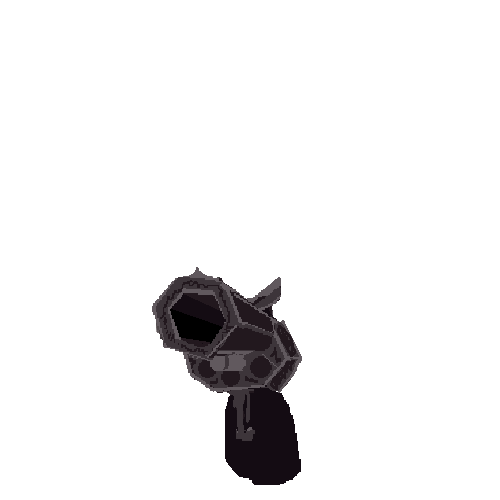
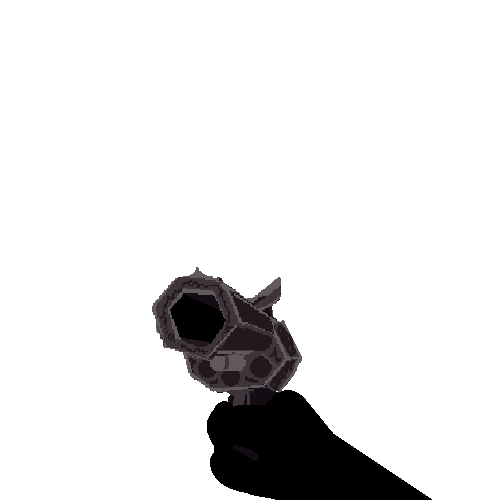
improved sprites n animations

Changed region(s): [[0.39, 0.78, 0.87, 1.0]]

diff --git a/game.py b/game.py
@@ -2,10 +2,10 @@ import pygame
 import random
 import sys
 
-# Initialize Pygame
+
 pygame.init()
 
-# Constants
+# dont touch
 SCREEN_WIDTH, SCREEN_HEIGHT = 1200, 600
 FPS = 30
 
@@ -22,7 +22,7 @@ pygame.display.set_caption("Russian Roulette")
 # Clock
 clock = pygame.time.Clock()
 
-# Fonts
+# Font
 font = pygame.font.SysFont(None, 55)
 
 def draw_text(text, font, color, surface, x, y):
@@ -31,7 +31,7 @@ def draw_text(text, font, color, surface, x, y):
     textrect.center = (x, y)
     surface.blit(textobj, textrect)
 
-# Load sounds
+# Load sound
 bang_sound = pygame.mixer.Sound('assets/gunshot.mp3')
 click_sound = pygame.mixer.Sound('assets/empty-gun-click.mp3')
 spin_sound = pygame.mixer.Sound('assets/revolver-spin.mp3')
@@ -43,89 +43,98 @@ background_image = pygame.transform.scale(background_image, (SCREEN_WIDTH, SCREE
 
 # Load and scale revolver image
 revolver_image = pygame.image.load('assets/revolver.png')
-revolver_image = pygame.transform.scale(revolver_image, (600, 600))  # 200 * 3 = 600
+revolver_image = pygame.transform.scale(revolver_image, (600, 600))
 
 # Load and scale animation frames
 spin_frames = [
-    pygame.transform.scale(pygame.image.load(f'assets/spin_{i}.png'), (600, 600))  # 200 * 3 = 600
+    pygame.transform.scale(pygame.image.load(f'assets/spin_{i}.png'), (600, 600))
     for i in range(1, 8)
 ]
 
-# Load and scale trigger effect
+# Flash image
 flash_image = pygame.image.load('assets/flash.png')
-flash_image = pygame.transform.scale(flash_image, (600, 600))  # 200 * 3 = 600
+flash_image = pygame.transform.scale(flash_image, (600, 600))
+
+def menu(): #menu that starts the main function (the game)
+    screen.fill(BLACK)
+    draw_text('Russian Roulette', font, RED, screen, SCREEN_WIDTH // 2, SCREEN_HEIGHT // 3)
+    draw_text('Remember. . . You can not win', font, RED, screen,  SCREEN_WIDTH // 2, SCREEN_HEIGHT // 2 )
+    draw_text('Click to Start', font, GREEN, screen, SCREEN_WIDTH // 2, SCREEN_HEIGHT // 1.2)
+    pygame.display.flip()
+
+    while True:
+        for event in pygame.event.get():
+            if event.type == pygame.QUIT:
+                pygame.quit()
+                sys.exit()
+            if event.type == pygame.MOUSEBUTTONDOWN:
+                main()
 
 def animate_spin():
     for frame in spin_frames:
-        screen.blit(background_image, (0, 0))  # Draw the background first
-        screen.blit(frame, (300, 0))  # Adjusted position to fit the larger image
+        screen.blit(background_image, (0, 0))
+        screen.blit(frame, (300, 0))
         pygame.display.flip()
-        pygame.time.delay(100)  # Adjust delay for animation speed
+        pygame.time.delay(100)
 
 def animate_trigger():
-    screen.blit(background_image, (0, 0))  # Draw the background first
-    screen.blit(flash_image, (300, 0))  # Adjusted position to fit the larger image
+    screen.blit(background_image, (0, 0))
+    screen.blit(flash_image, (300, 0))
     pygame.display.flip()
-    pygame.time.delay(200)  # Adjust delay for animation duration
-    screen.blit(background_image, (0, 0))  # Redraw the background
-    screen.blit(revolver_image, (300, 0))  # Adjusted position to fit the larger image
+    pygame.time.delay(200)
+    screen.blit(background_image, (0, 0))
+    screen.blit(revolver_image, (300, 0))
     pygame.display.flip()
 
 def main():
     running = True
     score = 0
-    cylinder = [0, 0, 0, 0, 0, 1]  # One bullet in the cylinder
-    random.shuffle(cylinder)  # Randomize the cylinder
+    cylinder = [0, 0, 0, 0, 0, 1]
+    random.shuffle(cylinder)
+
+    spin_button = pygame.Rect(250, 500, 200, 50)
+    trigger_button = pygame.Rect(750, 500, 200, 50)
 
     while running:
+        screen.blit(background_image, (0, 0))
+        screen.blit(revolver_image, (300, 0))
+
+        pygame.draw.rect(screen, GREEN, spin_button)
+        pygame.draw.rect(screen, RED, trigger_button)
+        draw_text('Spin', font, BLACK, screen, spin_button.centerx, spin_button.centery)
+        draw_text('Trigger', font, BLACK, screen, trigger_button.centerx, trigger_button.centery)
+
         for event in pygame.event.get():
             if event.type == pygame.QUIT:
                 pygame.quit()
                 sys.exit()
             if event.type == pygame.MOUSEBUTTONDOWN:
                 if spin_button.collidepoint(event.pos):
-                    # Spin the cylinder
                     spin_sound.play()
                     animate_spin()
                     cylinder = [0, 0, 0, 0, 0, 1]
                     random.shuffle(cylinder)
                 elif trigger_button.collidepoint(event.pos):
-                    # Pull the trigger
                     if cylinder.pop() == 1:
                         animate_trigger()
                         bang_sound.play()
                         ring_sound.play()
-                        
-                        draw_text('Game Over', font, RED, screen, SCREEN_WIDTH // 2, SCREEN_HEIGHT // 2)
+                        screen.fill(WHITE)
+                        draw_text('Death comes alas', font, RED, screen, SCREEN_WIDTH // 2, SCREEN_HEIGHT // 2)
                         pygame.display.flip()
-                        pygame.time.wait(2000)
+                        pygame.time.wait(5000)
                         running = False
                     else:
                         click_sound.play()
-                        screen.blit(background_image, (0, 0))  # Draw the background first
-                        screen.blit(revolver_image, (300, 0))  # Adjusted position to fit the larger image
+                        screen.blit(background_image, (0, 0))
+                        screen.blit(revolver_image, (300, 0))
                         score += 1
                         draw_text(f'Score: {score}', font, GREEN, screen, SCREEN_WIDTH // 2, SCREEN_HEIGHT // 2)
                         pygame.display.flip()
                         pygame.time.wait(1000)
 
-        screen.blit(background_image, (0, 0))  # background
-
-        # show revolver
-        screen.blit(revolver_image, (300, 0))
-
-        # Button positions and sizes
-        spin_button = pygame.Rect(250, 500, 200, 50)
-        trigger_button = pygame.Rect(750, 500, 200, 50)
-
-        # Drawing buttons
-        pygame.draw.rect(screen, GREEN, spin_button)
-        pygame.draw.rect(screen, RED, trigger_button)
-        draw_text('Spin', font, BLACK, screen, spin_button.centerx, spin_button.centery)
-        draw_text('Trigger', font, BLACK, screen, trigger_button.centerx, trigger_button.centery)
-
         pygame.display.flip()
         clock.tick(FPS)
 
 if __name__ == "__main__":
-    main()
+    menu()
